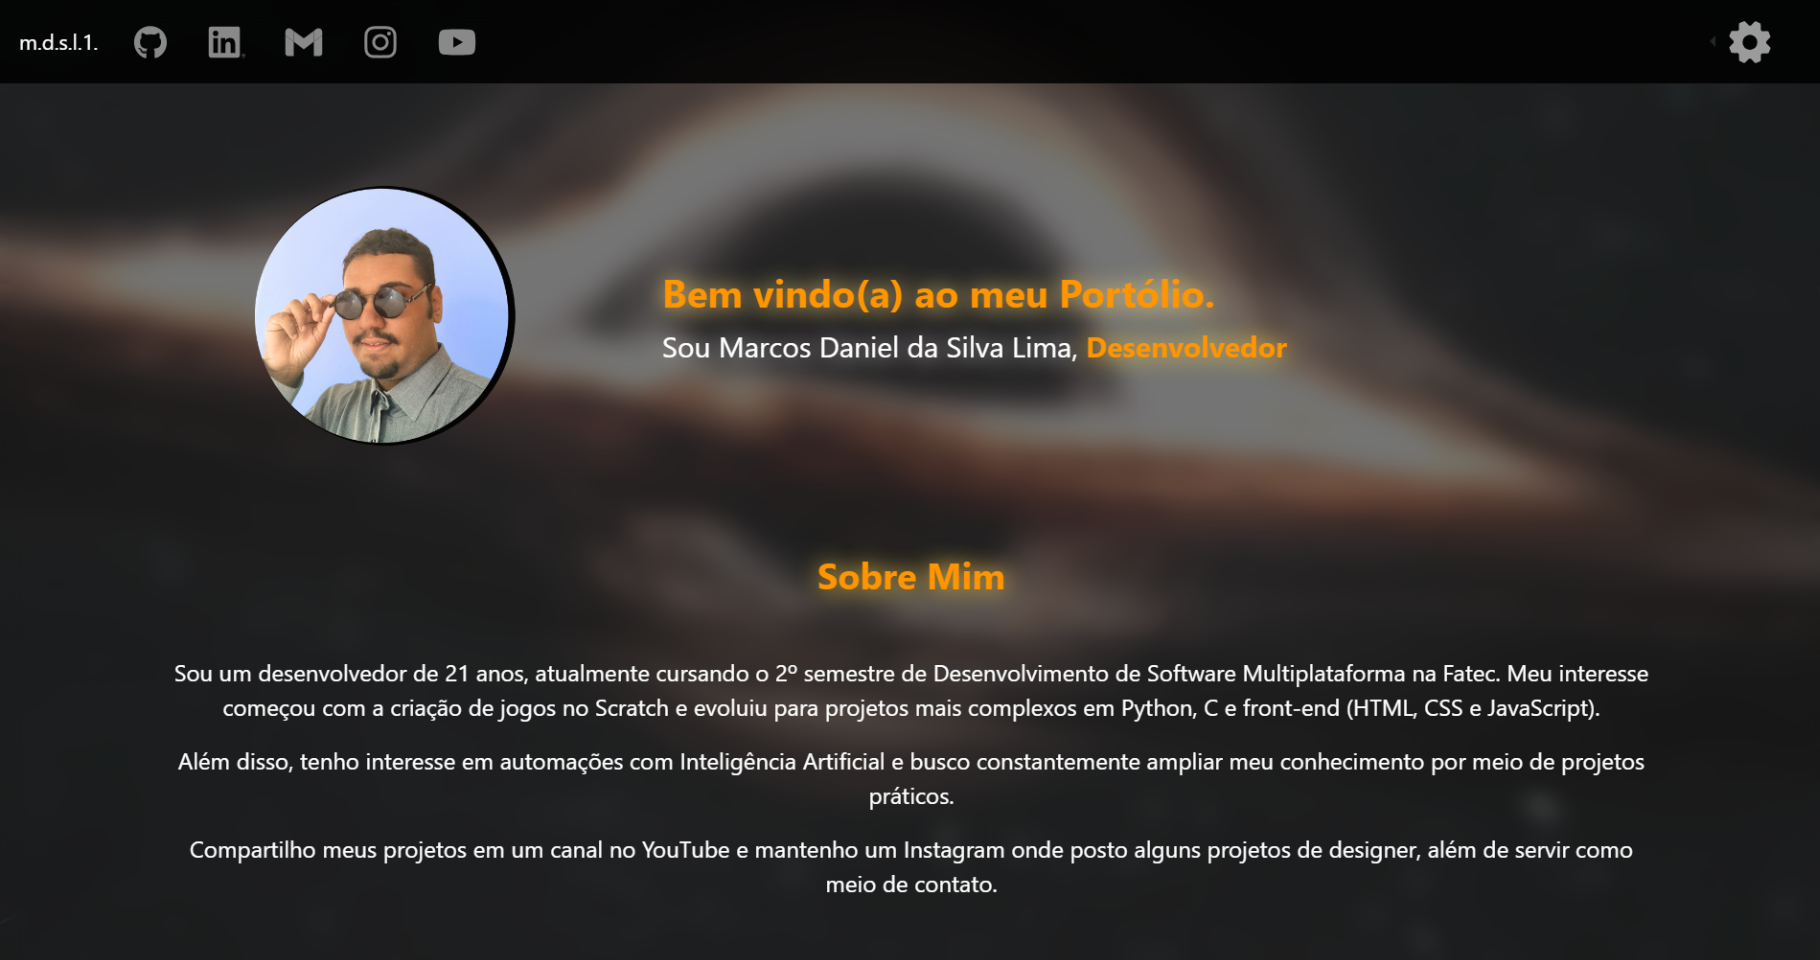
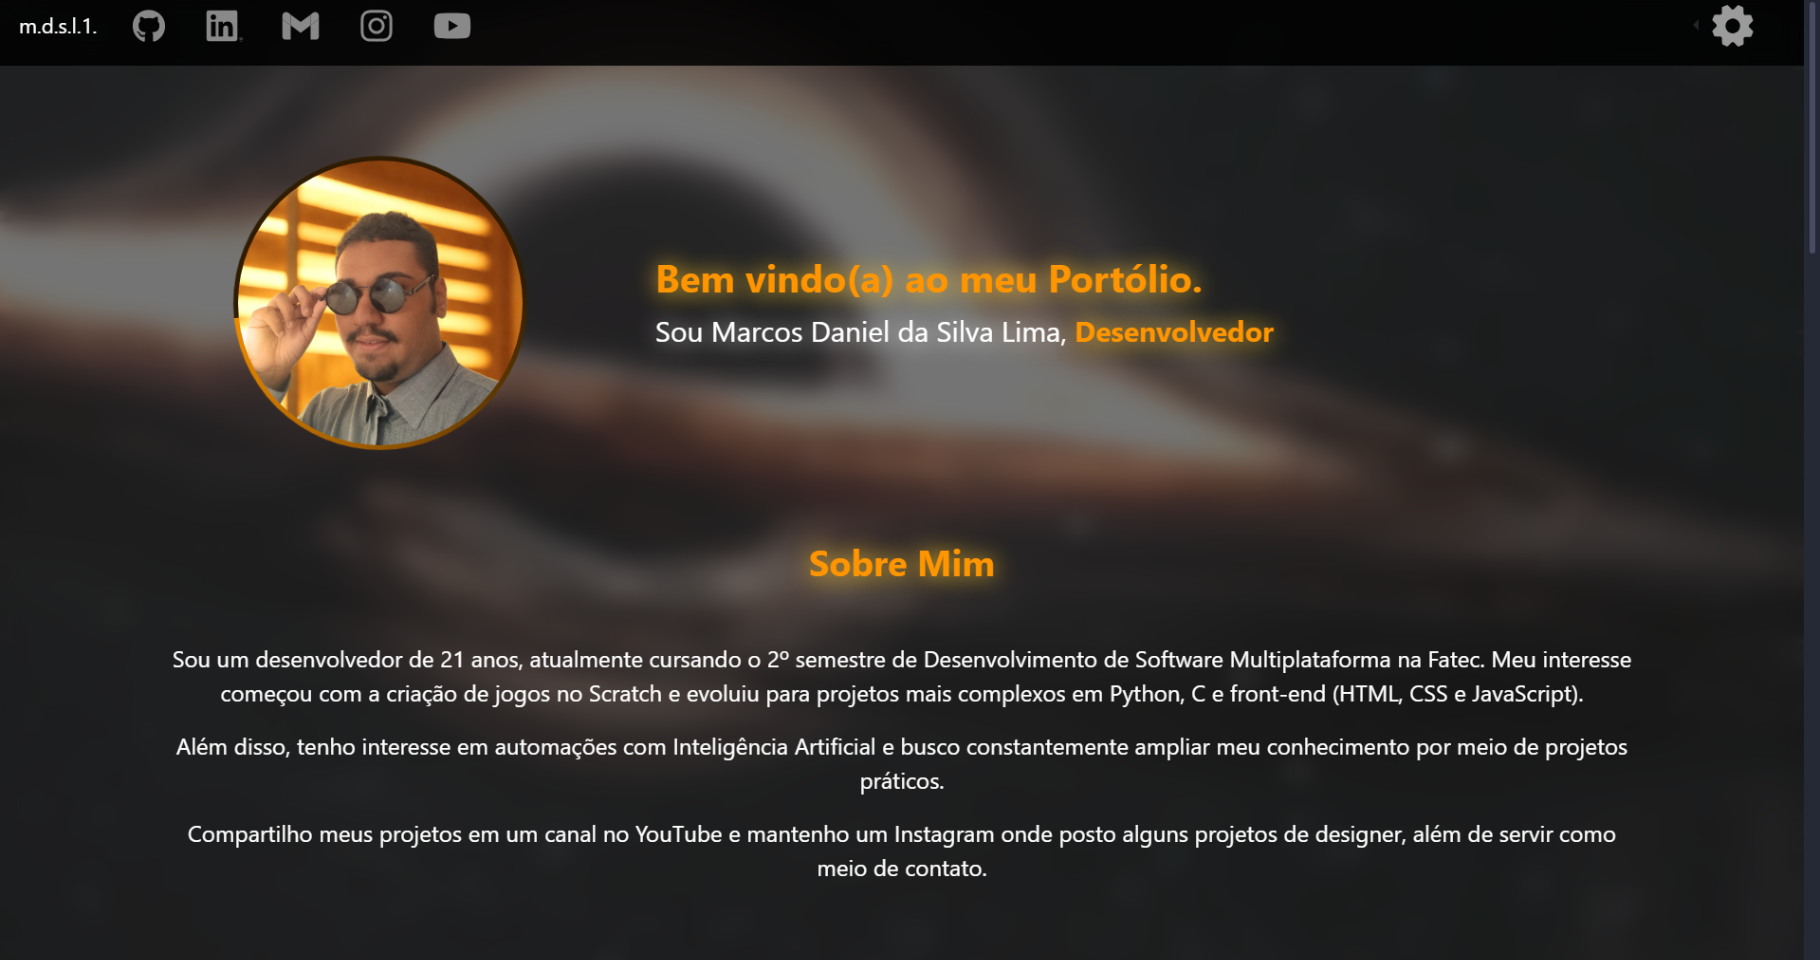
Finalizando parte de pausar animações e adicionando novos projetos

diff --git a/css/Style.css b/css/Style.css
@@ -143,12 +143,10 @@ section h2 {
 }
 
 /* Estilo da sessão introdutória*/
-.imgBorder {
+#imgBorder {
     width: 15.5rem;
     height: 15.5rem;
     border-radius: 50%;
-    background: conic-gradient(from 0deg, #301c00, #301c00, #ef8b00); /* Borda */
-    animation: girarBorda 2s linear infinite;
     display: flex;
     justify-content: center;
     align-items: center;
@@ -160,15 +158,24 @@ section h2 {
     height: 15rem;
     border-radius: 50%;
     object-fit: cover;
+}
+.antiGirar {
+    animation: girarBorda 2s linear infinite;
+}
+.bordaEstatica {
+    background: #ef8b00; /* Borda */
+}
+.girarBorda {
+    background: conic-gradient(from 0deg, #301c00, #301c00, #ef8b00); /* Borda */
     animation: antiGirar 2s linear infinite;
 }
 @keyframes girarBorda {
   0% { transform: rotate(0deg); }
-  100% { transform: rotate(360deg); }
+  100% { transform: rotate(-360deg); }
 }
 @keyframes antiGirar {
   0% { transform: rotate(0deg); }
-  100% { transform: rotate(-360deg); }
+  100% { transform: rotate(360deg); }
 }
 #introduction h1 {
     color: var(--text-title-sections);

diff --git a/js/Script.js b/js/Script.js
@@ -7,16 +7,24 @@ let animationEnabled = true;
 function pauseAnimations() {
     const pauseBtn = document.getElementById("pauseBgBtn");
     const video = document.getElementById("backgroundVideo");
+    const borderPhoto = document.getElementById("imgBorder");
+    const myPhoto = document.getElementById("myPhoto");
 
     if (animationEnabled) {
         // Desativa animação: pausa vídeo, esconde, mostra imagem
         video.pause();
         pauseBtn.textContent = "Despausar animações";
+        borderPhoto.classList.remove("girarBorda");
+        borderPhoto.classList.add("bordaEstatica");
+        myPhoto.classList.remove("antiGirar");
     }
     else {
         // Ativa animação: mostra vídeo e remove imagem
         video.play();
         pauseBtn.textContent = "Pausar animações";
+        borderPhoto.classList.add("girarBorda");
+        borderPhoto.classList.remove("bordaEstatica");
+        myPhoto.classList.add("antiGirar");
     }
 
     animationEnabled = !animationEnabled;

diff --git a/index.html b/index.html
@@ -57,8 +57,8 @@
         <div class="row align-items-center">
           <!-- Coluna da imagem -->
           <div class="col-md-4 d-flex justify-content-center">
-            <div class="imgBorder">
-              <div id="myPhoto" class="container"></div>
+            <div id="imgBorder" class="girarBorda">
+              <div id="myPhoto" class="container antiGirar"></div>
             </div>
           </div>
           <!-- Coluna do texto inicial -->
